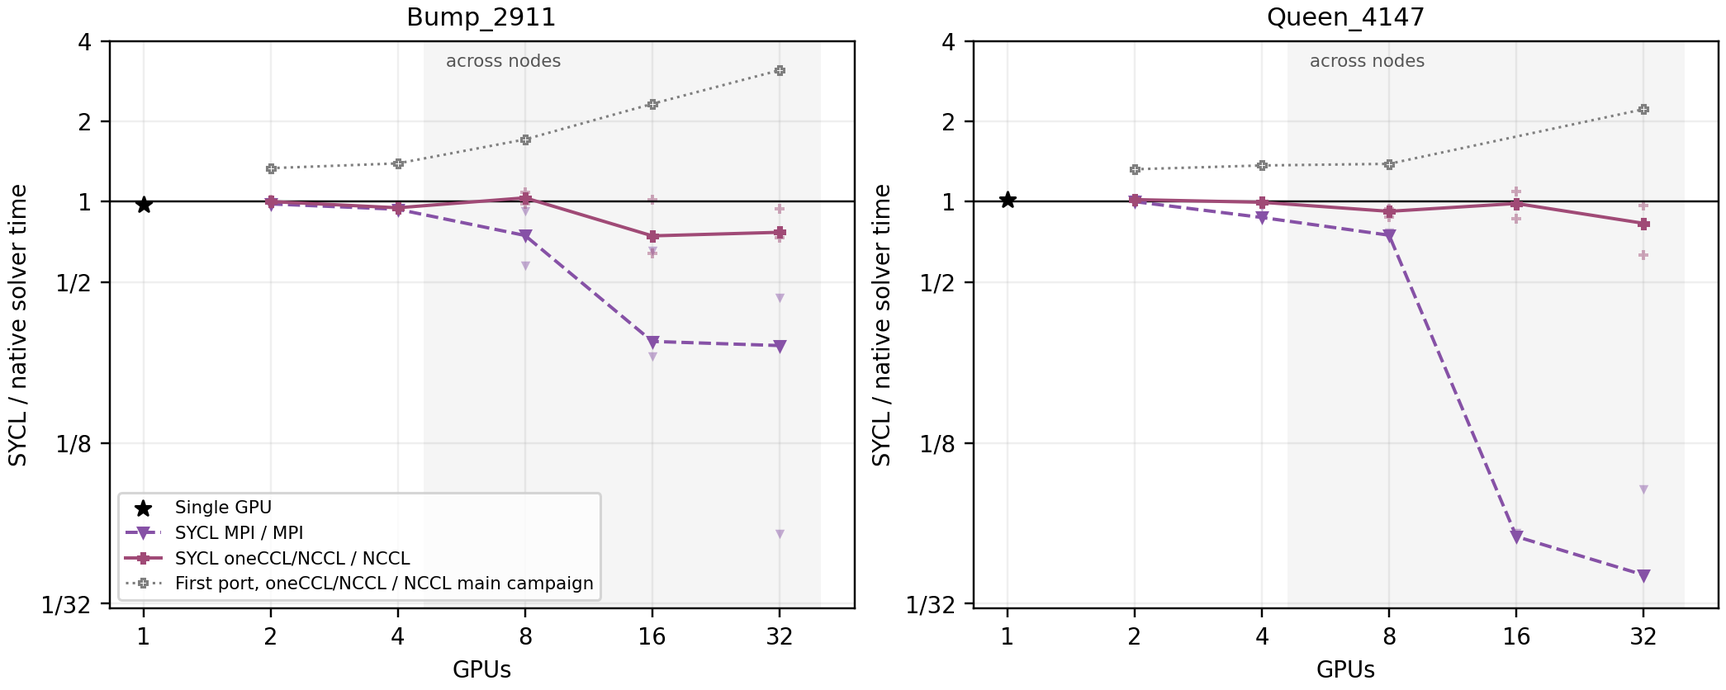
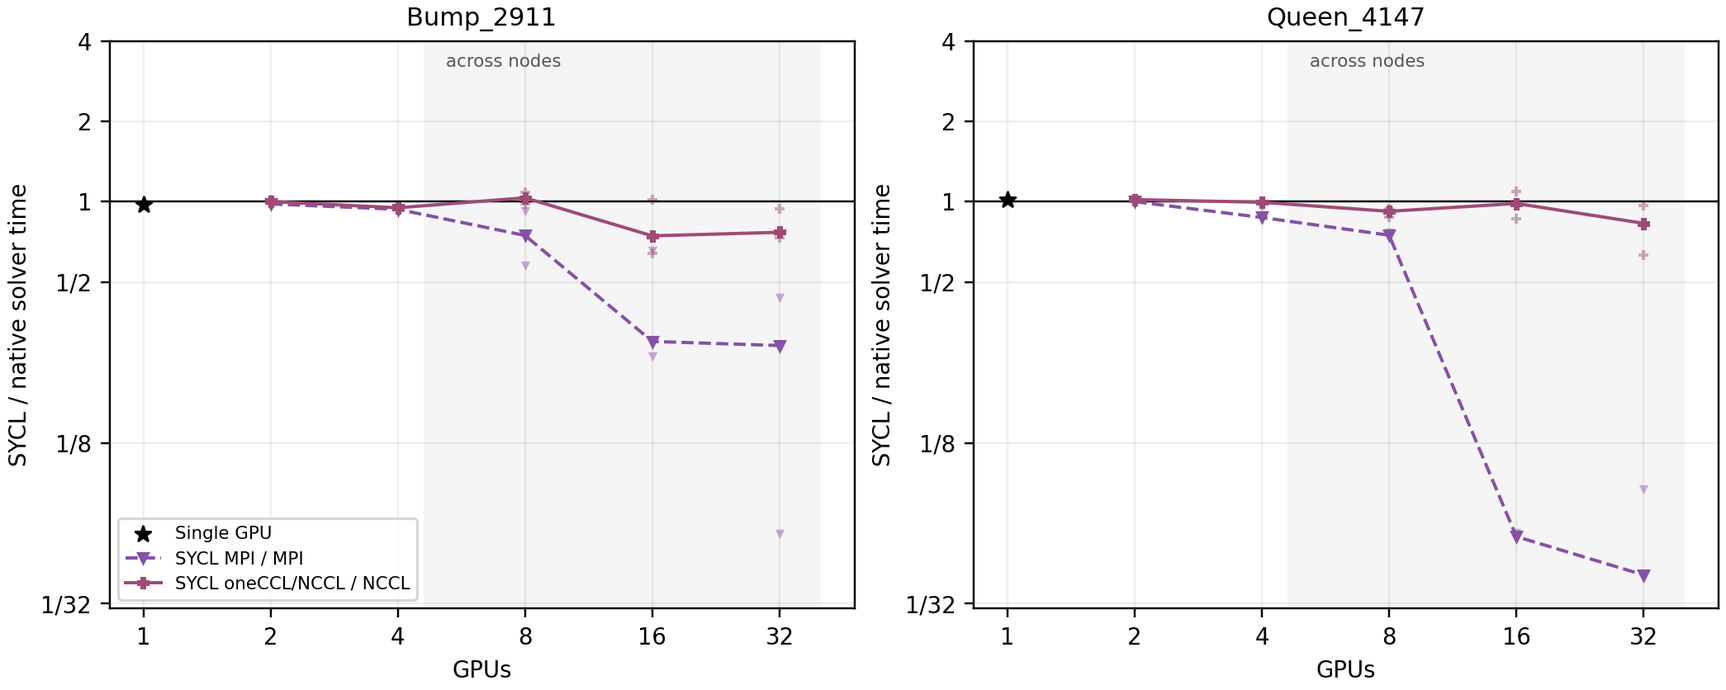
fixed title and removed comparisons vs old versions of sycl

diff --git a/chapters/05-experimental-evaluation.tex b/chapters/05-experimental-evaluation.tex
@@ -282,7 +282,7 @@ Figure~\ref{fig:m-cg-relative} shows why the margin matters. The direct CUDA pat
 \begin{figure}[htbp]
 \centering
 \includegraphics[width=\textwidth]{figures/results/cg-step-relative.png}
-\caption{Composite-step time relative to CUDA MPI at the same global grid side and topology. Centers are allocation medians; bands are allocation ranges divided by the fixed reference median, not confidence intervals for the ratio. Values below one favor the compared stack.}
+\caption{Composite-step time relative to CUDA MPI at the same global grid side and topology. Centers are allocation medians; bands are allocation ranges divided by the fixed reference median, not confidence intervals for the ratio. Values below one favor the compared stack. Only multi-rank topologies are shown: at \texttt{1n1g} no inter-rank communication occurs, and the single-GPU controls are reported in Table~\ref{tab:m-cg-step}.}
 \label{fig:m-cg-relative}
 \end{figure}
 
@@ -491,31 +491,21 @@ The SYCL solver and the native CUDA solver were run in the same allocations, int
 \input{data/main-campaign/acg-sycl-table.tex}
 \end{table}
 
+\begin{figure}[htbp]
+\centering
+\includegraphics[width=\textwidth]{figures/results/acg-sycl-ratio.png}
+\caption{SYCL-to-native solver-time ratio against GPU count. Points are single allocations, each the ratio of the SYCL and native medians of that job; lines are medians over allocations. The shaded region spans more than one node. Values above one favor CUDA; the SYCL MPI ratios below one across nodes reflect the native MPI slow mode, not a faster SYCL solver.}
+\label{fig:m-acg-sycl-ratio}
+\end{figure}
+
 Scaling up within a node, the two implementations are equivalent (Figure~\ref{fig:m-acg-sycl-scaling}, left). From one to four GPUs every ratio lies between 0.87 and 1.02. The only value below 0.93, Queen\_4147 MPI on four GPUs, comes from native MPI varying between allocations rather than from the SYCL solver, whose trials in that cell agree to within 0.1\%. The native medians of these allocations reproduce the main campaign within a node: at four GPUs native NCCL takes 12.5\,s against 12.3\,s on Bump\_2911 and 25.6\,s against 25.5\,s on Queen\_4147.
 
-Scaling out, the MPI pair separates (Figure~\ref{fig:m-acg-sycl-scaling}, right). The SYCL MPI solver keeps strong-scaling, taking 8.0, 6.1, and 5.6\,s at 8, 16, and 32 GPUs on Bump\_2911 and 14.7, 9.6, and 6.6\,s on Queen\_4147. Native MPI shows its slow mode in the same allocations (Section~\ref{sec:acg-variability}), with Queen\_4147 medians of 169 and 153\,s at 16 and 32 GPUs, so the MPI ratios of 0.04 to 0.75 in Table~\ref{tab:m-acg-sycl} measure that slow mode, not a faster solver. The two solvers now share the MPI installation, the Open MPI and UCX settings, the partition, and the nodes, and no SYCL MPI trial in any cell shows a slow mode. The slow mode is therefore not a property of the MPI library, its transport configuration, or the allocation; it depends on how the native solver drives MPI. At 32 GPUs, SYCL MPI records the lowest solver time measured for either matrix in this campaign or the main one: 5.6\,s against 6.0\,s for the fastest main-campaign NCCL trial on Bump\_2911, and 6.6\,s against 7.25\,s on Queen\_4147. These come from different campaigns, so they bound rather than rank the two.
+Scaling out, the MPI pair separates (Figure~\ref{fig:m-acg-sycl-scaling}, right). The SYCL MPI solver keeps strong-scaling, taking 8.0, 6.1, and 5.6\,s at 8, 16, and 32 GPUs on Bump\_2911 and 14.7, 9.6, and 6.6\,s on Queen\_4147. Native MPI shows its slow mode in the same allocations (Section~\ref{sec:acg-variability}), with Queen\_4147 medians of 169 and 153\,s at 16 and 32 GPUs, so the MPI ratios of 0.04 to 0.75 in Table~\ref{tab:m-acg-sycl} and Figure~\ref{fig:m-acg-sycl-ratio} measure that slow mode, not a faster solver. The two solvers now share the MPI installation, the Open MPI and UCX settings, the partition, and the nodes, and no SYCL MPI trial in any cell shows a slow mode. The slow mode is therefore not a property of the MPI library, its transport configuration, or the allocation; it depends on how the native solver drives MPI. At 32 GPUs, SYCL MPI records the lowest solver time measured for either matrix in this campaign or the main one: 5.6\,s against 6.0\,s for the fastest main-campaign NCCL trial on Bump\_2911, and 6.6\,s against 7.25\,s on Queen\_4147. These come from different campaigns, so they bound rather than rank the two.
 
-The NCCL pair stays within 0.74--1.03 across nodes, but here the paired ratio is conditional on the allocations. Both NCCL-based solvers ran slower across nodes in this campaign than native NCCL did in the main campaign: native NCCL takes 18.9\,s at 32 GPUs on Bump\_2911 against 6.4\,s before, and 24.0\,s against 7.5\,s on Queen\_4147. NCCL selected InfiniBand with GPUDirect RDMA in these jobs, and a later check at \texttt{2n4g}, not part of the archive, moved native NCCL and SYCL oneCCL/NCCL together, to 9.1 and 9.4\,s, which points to the allocation rather than to either solver. Measured against the main-campaign NCCL medians instead, SYCL oneCCL/NCCL takes 1.19 to 2.19 times as long at 8 to 32 GPUs. That gap belongs to the reduction path, not to the SYCL solver. The SYCL MPI and SYCL oneCCL/NCCL variants run identical kernels and halo exchange, yet the oneCCL/NCCL variant spends 85 to 340\,$\mu$s more per iteration blocked in its two scalar reductions once it spans nodes, against 8 to 22\,$\mu$s within a node. Its reductions complete synchronously on the host, waiting for the oneCCL event and the queue, while the native NCCL solver keeps both reductions stream-ordered and never waits for them.
+The NCCL pair stays within 0.74--1.03 across nodes (Figure~\ref{fig:m-acg-sycl-ratio}), but here the paired ratio is conditional on the allocations. Both NCCL-based solvers ran slower across nodes in this campaign than native NCCL did in the main campaign: native NCCL takes 18.9\,s at 32 GPUs on Bump\_2911 against 6.4\,s before, and 24.0\,s against 7.5\,s on Queen\_4147. NCCL selected InfiniBand with GPUDirect RDMA in these jobs, and a later check at \texttt{2n4g}, not part of the archive, moved native NCCL and SYCL oneCCL/NCCL together, to 9.1 and 9.4\,s, which points to the allocation rather than to either solver. Measured against the main-campaign NCCL medians instead, SYCL oneCCL/NCCL takes 1.19 to 2.19 times as long at 8 to 32 GPUs. That gap belongs to the reduction path, not to the SYCL solver. The SYCL MPI and SYCL oneCCL/NCCL variants run identical kernels and halo exchange, yet the oneCCL/NCCL variant spends 85 to 340\,$\mu$s more per iteration blocked in its two scalar reductions once it spans nodes, against 8 to 22\,$\mu$s within a node. Its reductions complete synchronously on the host, waiting for the oneCCL event and the queue, while the native NCCL solver keeps both reductions stream-ordered and never waits for them.
 
-\begin{table}[htbp]
-\centering
-\caption{Median solver time in seconds of the first SYCL implementation (v1, the previous campaign) and of the current one, and the speedup between them. $^\dagger$The v1 oneCCL/NCCL cell is its reduction slow mode (all three trials 902--918\,s), so no speedup is derived from it.}
-\label{tab:m-acg-sycl-history}
-\footnotesize
-\input{data/main-campaign/acg-sycl-history-table.tex}
-\end{table}
-
-The equivalence is the result of changes to the SYCL solver, not of a change in the native reference (Table~\ref{tab:m-acg-sycl-history}). Against the first SYCL implementation, the current one is 1.29 to 1.47 times faster within a node in every variant, and SYCL MPI is 1.41 to 3.11 times faster across nodes. The first implementation took 1.30 to 1.39 times the native solver time within a node. That gap had been read as a kernel cost (Section~\ref{sec:sycl-cost}), but it was caused by implementation choices that SYCL does not impose, each of which the current solver removes:
-\begin{itemize}
-    \item \emph{Index width.} The sparse matrix used 64-bit row pointers and column indices on the device, 16 bytes per nonzero against native aCG's 12; the current solver uses 32-bit indices whenever the matrix fits.
-    \item \emph{Host round-trips.} Every operation was followed by a host wait, and both CG scalars were copied to the host each iteration to form $\alpha$ and $\beta$ there. The current solver computes $\alpha$ and $\beta$ inside the update kernels from scalars kept in device memory, and the host waits only before MPI reads device data and for one 16-byte copy of $\gamma$ and $\rho$ per iteration, behind which the search-direction update runs.
-    \item \emph{Halo exchange.} One packing kernel per neighbor became one kernel into a contiguous send buffer, and the interior SpMV is now submitted before the rank enters \texttt{MPI\_Waitall}, so MPI progresses while the GPU computes.
-    \item \emph{Single GPU.} A redundant norm computation and a separate scale-and-add were replaced by one fused update.
-\end{itemize}
-Each change was screened in pairs against the first implementation in the same allocations during development; only the combined result is part of the retained archive. Within a node, 32-bit indices gave the largest single gain, about 1.2 times; across nodes, flat packing did, up to 1.4 times at 32 GPUs. The changes do not add independently: at \texttt{2n4g}, the four that apply there gave 1.03 to 1.10 each when measured alone, a product of about 1.25, but 1.52 together, because while any one host wait remains in an iteration it still stalls the device. The measurement was aligned at the same time: both solvers now run ten untimed warmup iterations and time the same interval, from a barrier through the initial residual and the loop, as the maximum over ranks.
-
-With these changes the two implementations have the same per-iteration structure. Both solve the same distributed problem from the same partition, split each rank's rows into an interior block multiplied by cuSPARSE and a halo block, overlap the halo exchange with the interior SpMV, keep the CG scalars in device memory, and copy one small result to the host per iteration for the convergence test. Three differences remain. The native NCCL variant exchanges its halo through NCCL, while both SYCL variants use MPI. Native aCG orders its halo exchange on a separate CUDA stream with events, while the SYCL solver uses one in-order queue. And the oneCCL/NCCL reductions complete on the host, which the native NCCL reductions do not. The first two have no measurable cost within a node; the third is the scale-out gap above.
+The two implementations share the per-iteration structure that sets the time within a node. Both solve the same distributed problem from the same partition, and both split each rank's rows into an interior block, multiplied by cuSPARSE with 32-bit indices, and a halo block for the ghost columns. Both pack every outgoing halo value in one kernel, post the exchange, and let it progress while the interior SpMV runs. Both keep the CG scalars in device memory, form $\alpha$ and $\beta$ inside the vector-update kernels, and copy one small result to the host per iteration for the convergence test, behind which the search-direction update runs. The SYCL solver expresses this with DPC++ and oneMath on one in-order queue, and the host waits only where it must: before MPI reads device data, in the halo and reduction completions, and for that per-iteration copy. Three differences remain. The native NCCL variant exchanges its halo through NCCL, while both SYCL variants use MPI. Native aCG orders its halo exchange on a separate CUDA stream with events, while the SYCL solver uses one in-order queue. And the oneCCL/NCCL reductions complete on the host, which the native NCCL reductions do not. The first two have no measurable cost within a node; the third is the scale-out gap above.
 
 \begin{keypoint}[CUDA--SYCL takeaway]
-The SYCL solver retains the native solver's performance within a node, at 0.87 to 1.02 of its solver time, and with MPI it keeps scaling to 32 GPUs on the same MPI installation where native MPI enters its slow mode. The earlier 1.3-fold gap was an implementation cost, not a cost of SYCL. What remains is in the oneCCL/NCCL reduction, which completes on the host and costs 1.19 to 2.19 times the main-campaign native NCCL time across nodes; in the same allocations the two NCCL-based solvers are at parity.
+The SYCL solver retains the native solver's performance within a node, at 0.87 to 1.02 of its solver time, and with MPI it keeps scaling to 32 GPUs on the same MPI installation where native MPI enters its slow mode. With the same data layout and synchronization structure, expressing the solver in SYCL costs nothing measurable. What remains is in the oneCCL/NCCL reduction, which completes on the host and costs 1.19 to 2.19 times the main-campaign native NCCL time across nodes; in the same allocations the two NCCL-based solvers are at parity.
 \end{keypoint}

diff --git a/chapters/06-discussion.tex b/chapters/06-discussion.tex
@@ -72,7 +72,7 @@ Inside a node no proxy stands in the path: device-issued operations resolve to m
 
 The second axis of the study changes the compute interface rather than the communication stack, and the measurements separate the two more cleanly than a solver-level ratio can. Over the five patterns that time communication alone, expressing the same exchange through SYCL MPI rather than CUDA MPI costs about 1\% at the median (Section~\ref{sec:sycl-portability}). That is the expected result once the payload path, transport, and completion boundary are identical and only host-side submission and the buffer's allocator change. The composite step is the first case with a visible gap, at $1.28\times$ median, and it is also the first case that contains computation; its single-GPU control reaches $1.48\times$ with inter-rank transfer removed entirely. On this platform the portability cost therefore belongs to kernels and host orchestration, not to the communication path, and a portable interface is inexpensive wherever the operation is large enough to hide its submission and visible where it is not.
 
-The solver comparison qualifies where that remaining cost comes from (Section~\ref{sec:acg-sycl}). The first SYCL implementation took 1.30--1.39 times the native solver time within a node, which matched the composite step's gap and was read as a cost of expressing kernels in SYCL. The current implementation removes it: measured in the same allocations as the native solver, it takes 0.87--1.02 of the native solver time from one to four GPUs, with the same DPC++ toolchain, the same oneMath libraries, and no change on the native side. The earlier gap was therefore an implementation cost, arising from 64-bit sparse indices, a host wait after every operation, and scalar recurrences evaluated on the host, and none of these is required by SYCL. Once the SYCL solver keeps the same data layout and the same per-iteration synchronization structure as the native one, the programming model itself costs nothing measurable on this platform. The composite step's 1.28 factor has not been re-measured with the same changes, so it cannot yet be assigned to either cause.
+The solver comparison tests whether that remaining cost is a property of SYCL (Section~\ref{sec:acg-sycl}). Measured in the same allocations as the native solver, the SYCL solver takes 0.87--1.02 of the native solver time from one to four GPUs. It keeps the native solver's data layout, including 32-bit sparse indices, and its synchronization structure, with the CG scalars in device memory and one host wait per iteration for the convergence test. With those matched, the programming model costs nothing measurable on this platform. The composite step's 1.28 factor is therefore not a lower bound on the cost of SYCL; which of that implementation's choices it reflects is not measured here.
 
 Across nodes, the result depends on the reduction path rather than on SYCL. With MPI reductions, the SYCL solver keeps strong-scaling to 32 GPUs on the HPC-X installation where native MPI enters its slow mode, so the slow mode belongs to the native solver's use of MPI and not to the library. With oneCCL/NCCL reductions, the same SYCL kernels and halo exchange spend 85--340\,$\mu$s more per iteration in the two reductions than with MPI, because each oneCCL reduction completes on the host. That places the remaining portability cost in the adapter's completion contract, the same property that decided the adapter results in the microbenchmarks. In the same allocations the NCCL-based solvers are at parity, but against the main-campaign native NCCL times the SYCL oneCCL/NCCL solver remains 1.19--2.19 times slower at 8 to 32 GPUs. A stream-ordered completion of the oneCCL reduction, as native NCCL provides, is the change that would test whether this gap closes.
 
@@ -85,7 +85,7 @@ The evaluated persistent, kernel-invoked NVSHMEM path is favorable for large, ba
 SHMEM-style paths fit persistent or explicitly managed exchanges when symmetric allocation, remote addressing, notification, and safe reuse align with the application. Those responsibilities remain visible either in application code or in an adapter. The oneCCL/NCCL path retains asynchronous execution and approaches direct NCCL at a bulk all-to-all endpoint, while the oneCCL/OSHMPI staging path becomes approximately 18 times slower than direct OSHMPI for the measured 16\,MiB intra-node allreduce. The adapter rather than the underlying library accounts for that difference: the same interface stays within 2\% of direct NCCL on the collective patterns, where the operation is large enough to hide its submission. What a common interface costs is therefore set by the memory path and completion semantics it must impose, not by the library it dispatches to.
 
 \paragraph{RQ3: application transfer and CUDA--SYCL retention.}
-Matched MPI and NCCL scalar intervals show approximate cross-level agreement, and the device-initiated step reproduces the monolithic solver's scaling shape at the one grid side whose local work per GPU is comparable. The regular halo and the synthetic OSHMPI result do not predict the complete solver ranking, because peer structure, overlap, primitive, and completion differ. Transfer is therefore conditional rather than general, and the conditions are the ones listed in the cross-level synthesis. For the SYCL version, the paired campaign shows full retention within a node: SYCL-to-native solver-time ratios of 0.87--1.02 from one to four GPUs, with every trial on both sides residual-valid, after the first implementation's 1.3-fold gap was traced to implementation choices. Across nodes, SYCL MPI retains and exceeds native MPI performance because it avoids the native slow mode, while SYCL oneCCL/NCCL matches native NCCL in the same allocations but reaches only 46--84\% of the main campaign's native NCCL performance at 8--32 GPUs; Section~\ref{sec:sycl-cost} places that loss in the host-synchronous oneCCL reduction rather than in the SYCL solver.
+Matched MPI and NCCL scalar intervals show approximate cross-level agreement, and the device-initiated step reproduces the monolithic solver's scaling shape at the one grid side whose local work per GPU is comparable. The regular halo and the synthetic OSHMPI result do not predict the complete solver ranking, because peer structure, overlap, primitive, and completion differ. Transfer is therefore conditional rather than general, and the conditions are the ones listed in the cross-level synthesis. For the SYCL version, the paired campaign shows full retention within a node: SYCL-to-native solver-time ratios of 0.87--1.02 from one to four GPUs, with every trial on both sides residual-valid. Across nodes, SYCL MPI retains and exceeds native MPI performance because it avoids the native slow mode, while SYCL oneCCL/NCCL matches native NCCL in the same allocations but reaches only 46--84\% of the main campaign's native NCCL performance at 8--32 GPUs; Section~\ref{sec:sycl-cost} places that loss in the host-synchronous oneCCL reduction rather than in the SYCL solver.
 
 \section{Limitations}\label{sec:limitations}
 

diff --git a/chapters/04-methodology.tex b/chapters/04-methodology.tex
@@ -425,7 +425,7 @@ Three settings deliberately differ from the benchmark defaults, and each is acco
     \item \emph{SYCL MPI:} halo exchange and scalar reductions through GPU-aware MPI; paired with the MPI variant.
     \item \emph{SYCL oneCCL/NCCL:} scalar reductions through oneCCL with its NCCL backend, while the halo exchange stays on MPI; paired with the NCCL variant, which also moves its halo through NCCL.
 \end{itemize}
-The comparison is paired by construction. Every job runs all four multi-GPU variants, or both single-GPU solvers, in rounds: each round runs every variant once, and the order reverses from one round to the next, starting reversed on odd job numbers. Each cell holds three allocations of three rounds. Both solvers read the same matrix and METIS partition files, solve the same manufactured problem (seed 101) to a relative residual of $10^{-6}$ with a limit of 100\,000 iterations, run ten untimed warmup iterations, and are timed over the same interval: from a barrier after warmup, through the initial residual and the iteration loop, to completion, as the maximum over ranks. The SYCL solver additionally recomputes $\|b - Ax\| / \|b\|$ on the host from the original matrix after each solve, independently of its device code path, and that value is the one checked against the tolerance. The main comparison is the ratio of the SYCL and native medians within an allocation, summarized by its median over allocations; the native main campaign and the first SYCL implementation, measured against it in an earlier campaign, are kept as secondary references. The two solvers use different toolchains but share the communication environment:
+The comparison is paired by construction. Every job runs all four multi-GPU variants, or both single-GPU solvers, in rounds: each round runs every variant once, and the order reverses from one round to the next, starting reversed on odd job numbers. Each cell holds three allocations of three rounds. Both solvers read the same matrix and METIS partition files, solve the same manufactured problem (seed 101) to a relative residual of $10^{-6}$ with a limit of 100\,000 iterations, run ten untimed warmup iterations, and are timed over the same interval: from a barrier after warmup, through the initial residual and the iteration loop, to completion, as the maximum over ranks. The SYCL solver additionally recomputes $\|b - Ax\| / \|b\|$ on the host from the original matrix after each solve, independently of its device code path, and that value is the one checked against the tolerance. The main comparison is the ratio of the SYCL and native medians within an allocation, summarized by its median over allocations; the native main campaign is kept as a secondary reference. The two solvers use different toolchains but share the communication environment:
 \begin{itemize}
     \item \emph{Toolchains:} DPC++ 6.3 with the CUDA backend, GCC 12.2, CUDA 12.2, and oneMath (cuBLAS and cuSPARSE) for the SYCL solver; the native build and module environment described above for the CUDA solver, loaded in each native run.
     \item \emph{Communication:} the same HPC-X 2.19 installation and one shared file of Open MPI and UCX settings for both, with UCC disabled and a 16\,KiB rendezvous threshold. Its values equal those of the native environment for every Open MPI and UCX variable; the native file's additional one-sided (\texttt{OMPI\_MCA\_osc}), NVSHMEM, and OpenSHMEM settings were not applied; they configure one-sided MPI and the SHMEM communicators rather than the MPI and NCCL paths compared here. oneCCL is built with its NCCL backend over NCCL 2.22.3 from the site modules and bootstraps over the OFI TCP provider, so the NCCL pair also changes the NCCL release.

diff --git a/chapters/01-introduction.tex b/chapters/01-introduction.tex
@@ -71,7 +71,7 @@ The findings have three main implications for stack selection, reported in full 
 \begin{itemize}
 \item \emph{Rankings depend on the communication signature.} No stack leads everywhere. MPI supplies the low-startup reference, persistent device-initiated NVSHMEM leads large batched multi-node halos, and NCCL-based paths lead bulk collectives. Runtime configuration can move these boundaries as much as the library choice does, and so can the payload distribution: holding operation, topology, and total volume fixed, the MoE benchmark reverses the bulk redistribution ranking.
 \item \emph{Cross-level agreement requires comparable primitives and dependencies.} Scalar reduction costs measured in the composite step agree closely with the solver, whereas its regular two-neighbor halo does not represent the solver's irregular exchange and overlap. A benchmark predicts an application only where the operation, its completion contract, and its dependencies match.
-\item \emph{Implementation costs matter alongside communication.} Expressing communication through SYCL rather than CUDA costs about one percent in the communication-only patterns. A complete SYCL solver matches the native one within a node once it keeps the same data layout and synchronization structure, so the portability cost that remains lies in implementation choices and in the completion contract of the collective adapter, not in the programming model.
+\item \emph{Implementation costs matter alongside communication.} Expressing communication through SYCL rather than CUDA costs about one percent in the communication-only patterns. The complete SYCL solver, which keeps the native data layout and synchronization structure, matches the native one within a node, so the portability cost that remains lies in the completion contract of the collective adapter, not in the programming model.
 \end{itemize}
 
 The distinction between intra- and inter-node communication is central to this characterization. For NVSHMEM's device-side one-sided transfers, the evaluated platform provides two execution paths. Within a node, the peer's symmetric heap is directly mapped into the local GPU's address space, allowing GPU threads to move data through loads and stores over NVLink: the \emph{fast path}. Across nodes, the peer heap cannot be accessed through such a mapping, so operations use a network transport: the \emph{slow path}. On supported systems, InfiniBand GPUDirect Async (IBGDA) allows GPU code to construct and post network work requests directly to the InfiniBand adapter. Otherwise, the GPU writes a request descriptor into pinned host memory, and a dedicated CPU proxy thread consumes it and submits the network operation. Both alternatives belong to the network slow path \cite{ma_demystifying_2026}.

diff --git a/appendices/complete-backend-results.tex b/appendices/complete-backend-results.tex
@@ -40,11 +40,11 @@ The single-rank collective panels are implementation controls rather than networ
 
 \section{Composite Sequence}
 
-Figure~\ref{fig:app-cg-all} provides every retained \texttt{cg\_step} topology. Ratios use the CUDA MPI median at the same topology and global side as a fixed denominator; the bands do not propagate uncertainty in that denominator. The archived OSHMPI series retains its host-terminal scalar result.
+Figure~\ref{fig:app-cg-all} provides every retained multi-rank \texttt{cg\_step} topology; at \texttt{1n1g} no inter-rank communication occurs, so a ratio between stacks there does not compare communication paths. Ratios use the CUDA MPI median at the same topology and global side as a fixed denominator; the bands do not propagate uncertainty in that denominator. The archived OSHMPI series retains its host-terminal scalar result.
 
 \begin{figure}[htbp]
 \centering
 \includegraphics[width=\textwidth]{figures/results/cg-step-all-topologies.png}
-\caption{Composite-sequence time relative to CUDA MPI for all six measured stacks and all topologies.}
+\caption{Composite-sequence time relative to CUDA MPI for all six measured stacks and all multi-rank topologies.}
 \label{fig:app-cg-all}
 \end{figure}

diff --git a/main.tex b/main.tex
@@ -21,7 +21,7 @@
 \studentid{0522501614}
 \degree{Master's Degree in Computer Science (IoT) - LM18}
 \department{Department of Computer Science}
-\university{University of Salerno}
+\university{Università degli Studi di Salerno}
 \supervisor{Prof.\ Biagio Cosenza}
 \cosupervisor{PhD.\ Lorenzo Carpentieri}
 \academicyear{2025--2026}
